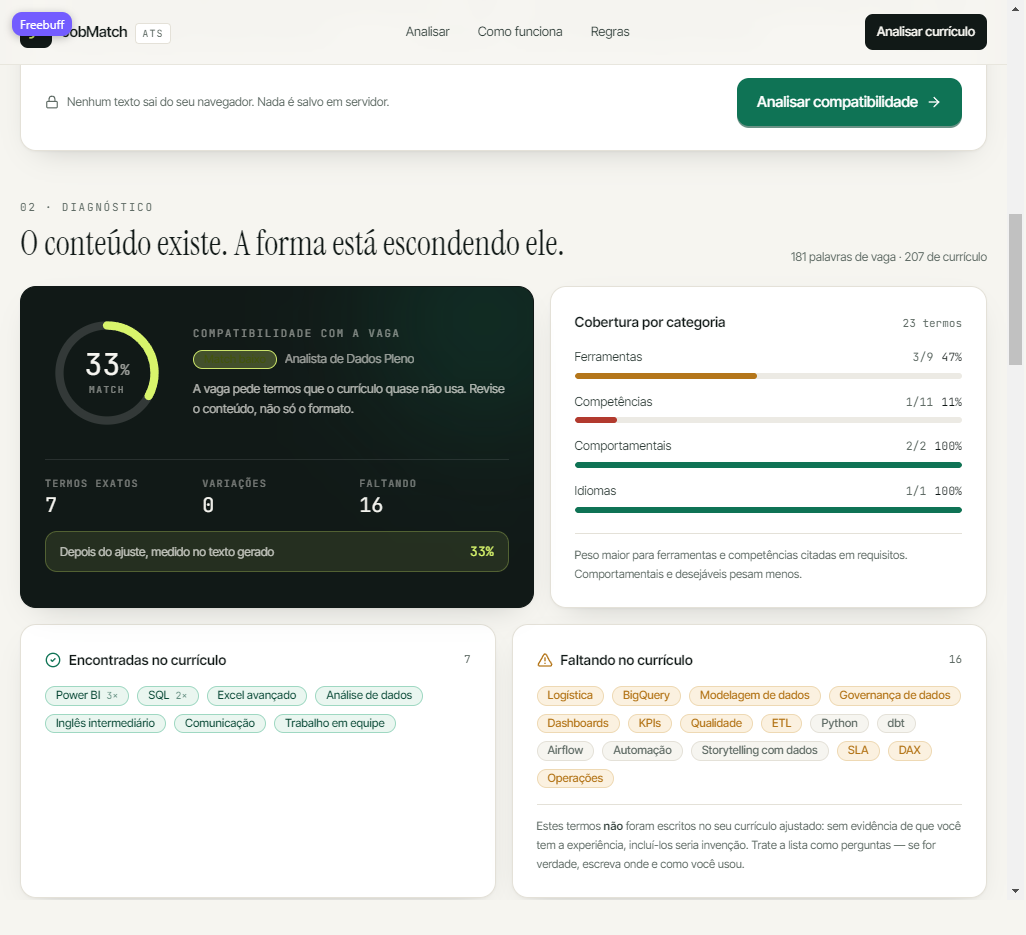
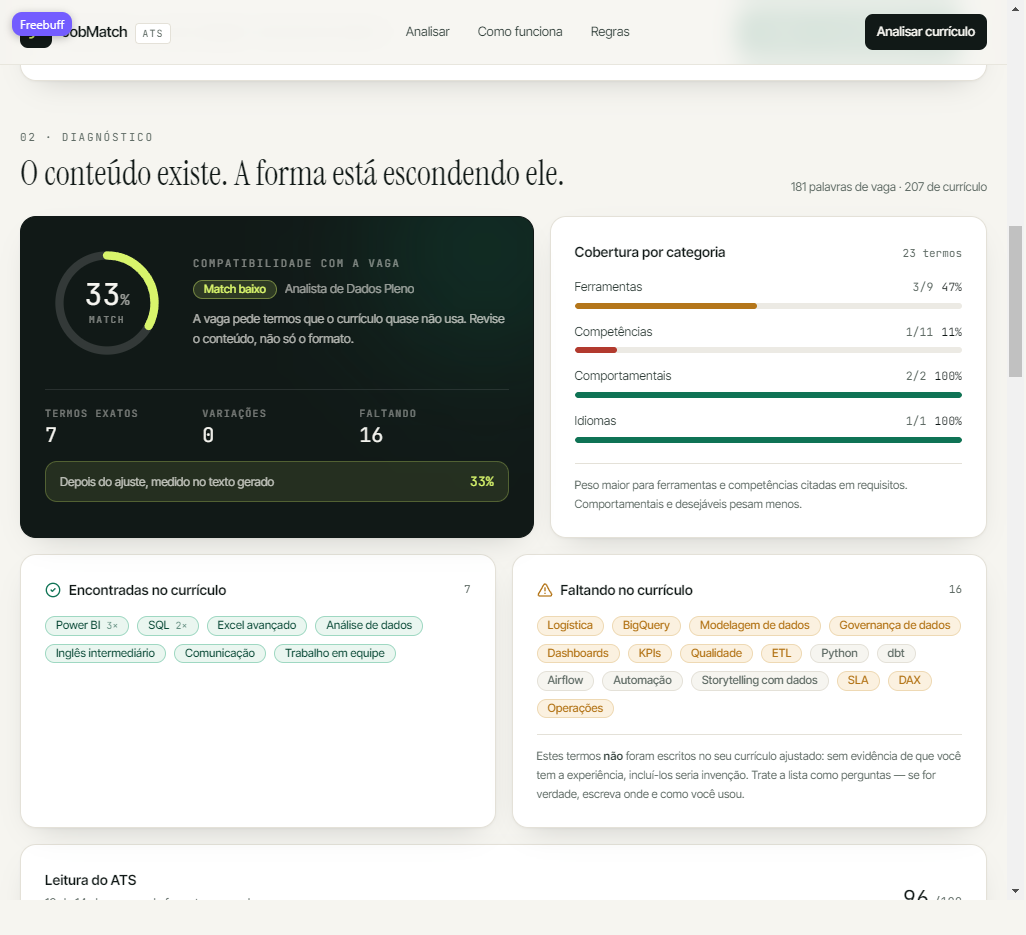
feat: prints da análise, imagem social e publicação estática

diff --git a/index.html b/index.html
@@ -10,6 +10,7 @@
     />
     <meta name="theme-color" content="#111917" />
     <meta name="author" content="JobMatch ATS" />
+    <link rel="canonical" href="https://site-0df3233230d442dea671950c6835f534.freebuff.page" />
     <link rel="icon" href="./favicon.svg" type="image/svg+xml" />
 
     <meta property="og:type" content="website" />
@@ -20,7 +21,10 @@
       property="og:description"
       content="Compare seu currículo com a vaga em segundos: match, palavras-chave que faltam e currículo ATS friendly para exportar. Sem inventar experiência."
     />
+    <meta property="og:url" content="https://site-0df3233230d442dea671950c6835f534.freebuff.page" />
     <meta property="og:image" content="/og-image.png" />
+    <meta property="og:image:width" content="1024" />
+    <meta property="og:image:height" content="630" />
     <meta name="twitter:card" content="summary_large_image" />
     <meta name="twitter:title" content="JobMatch ATS" />
     <meta
